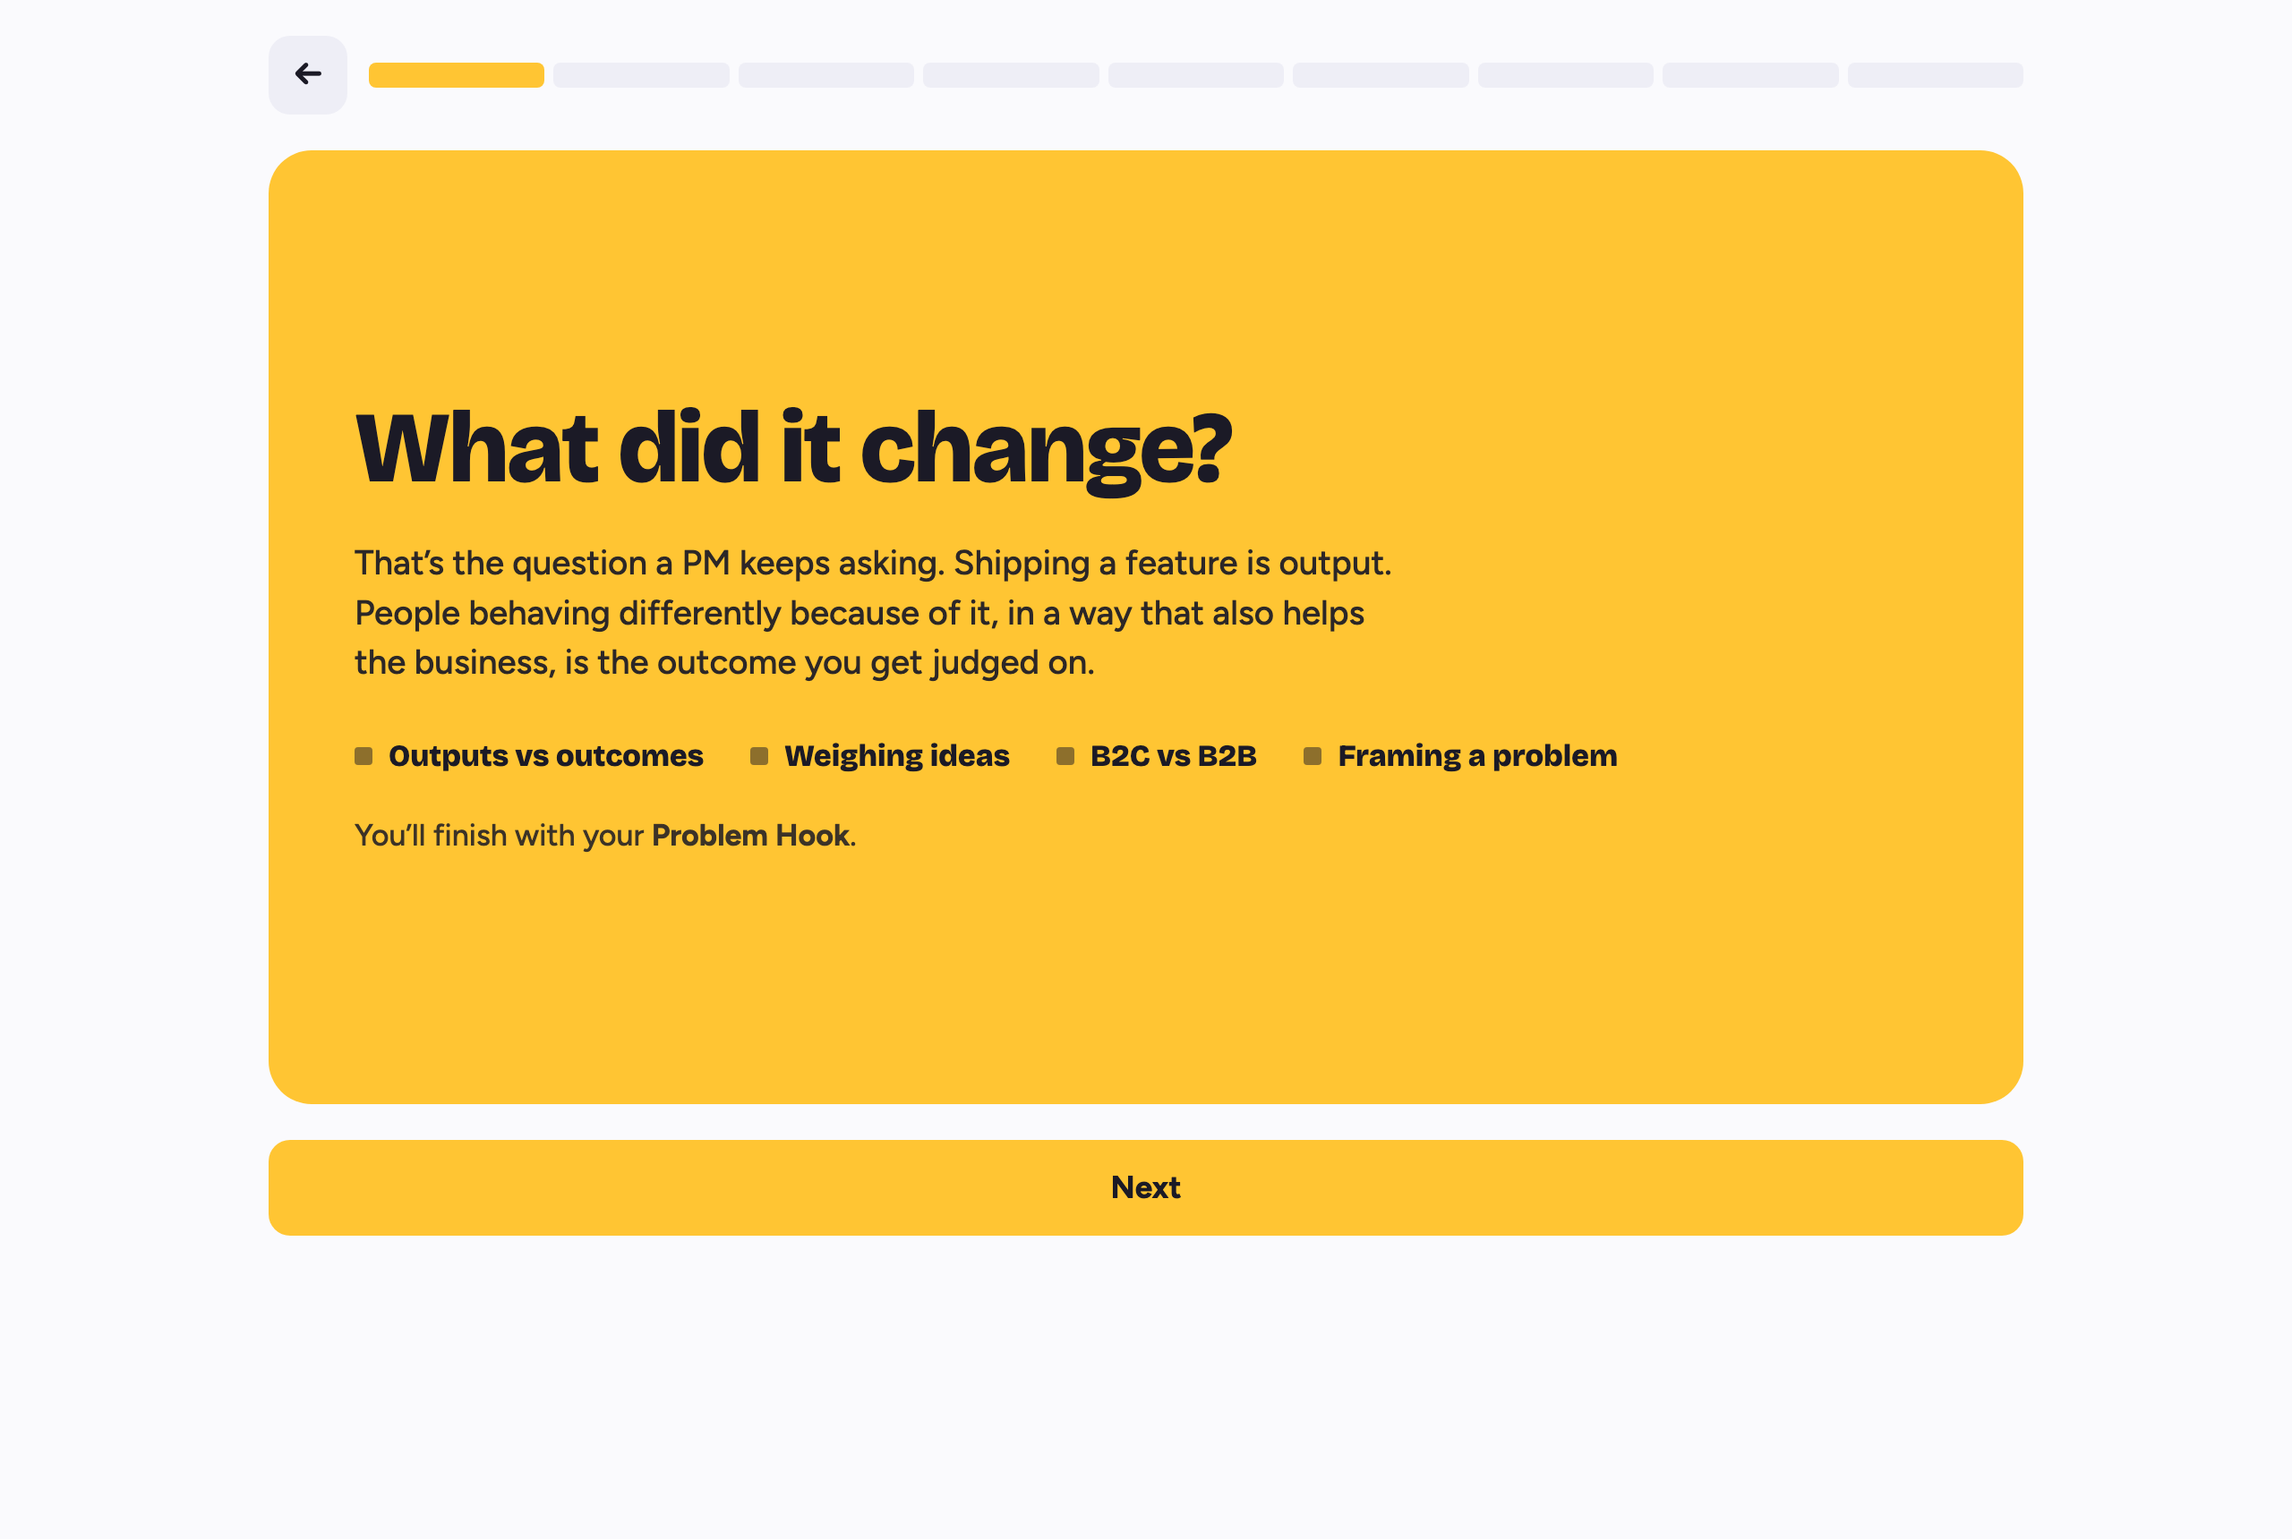
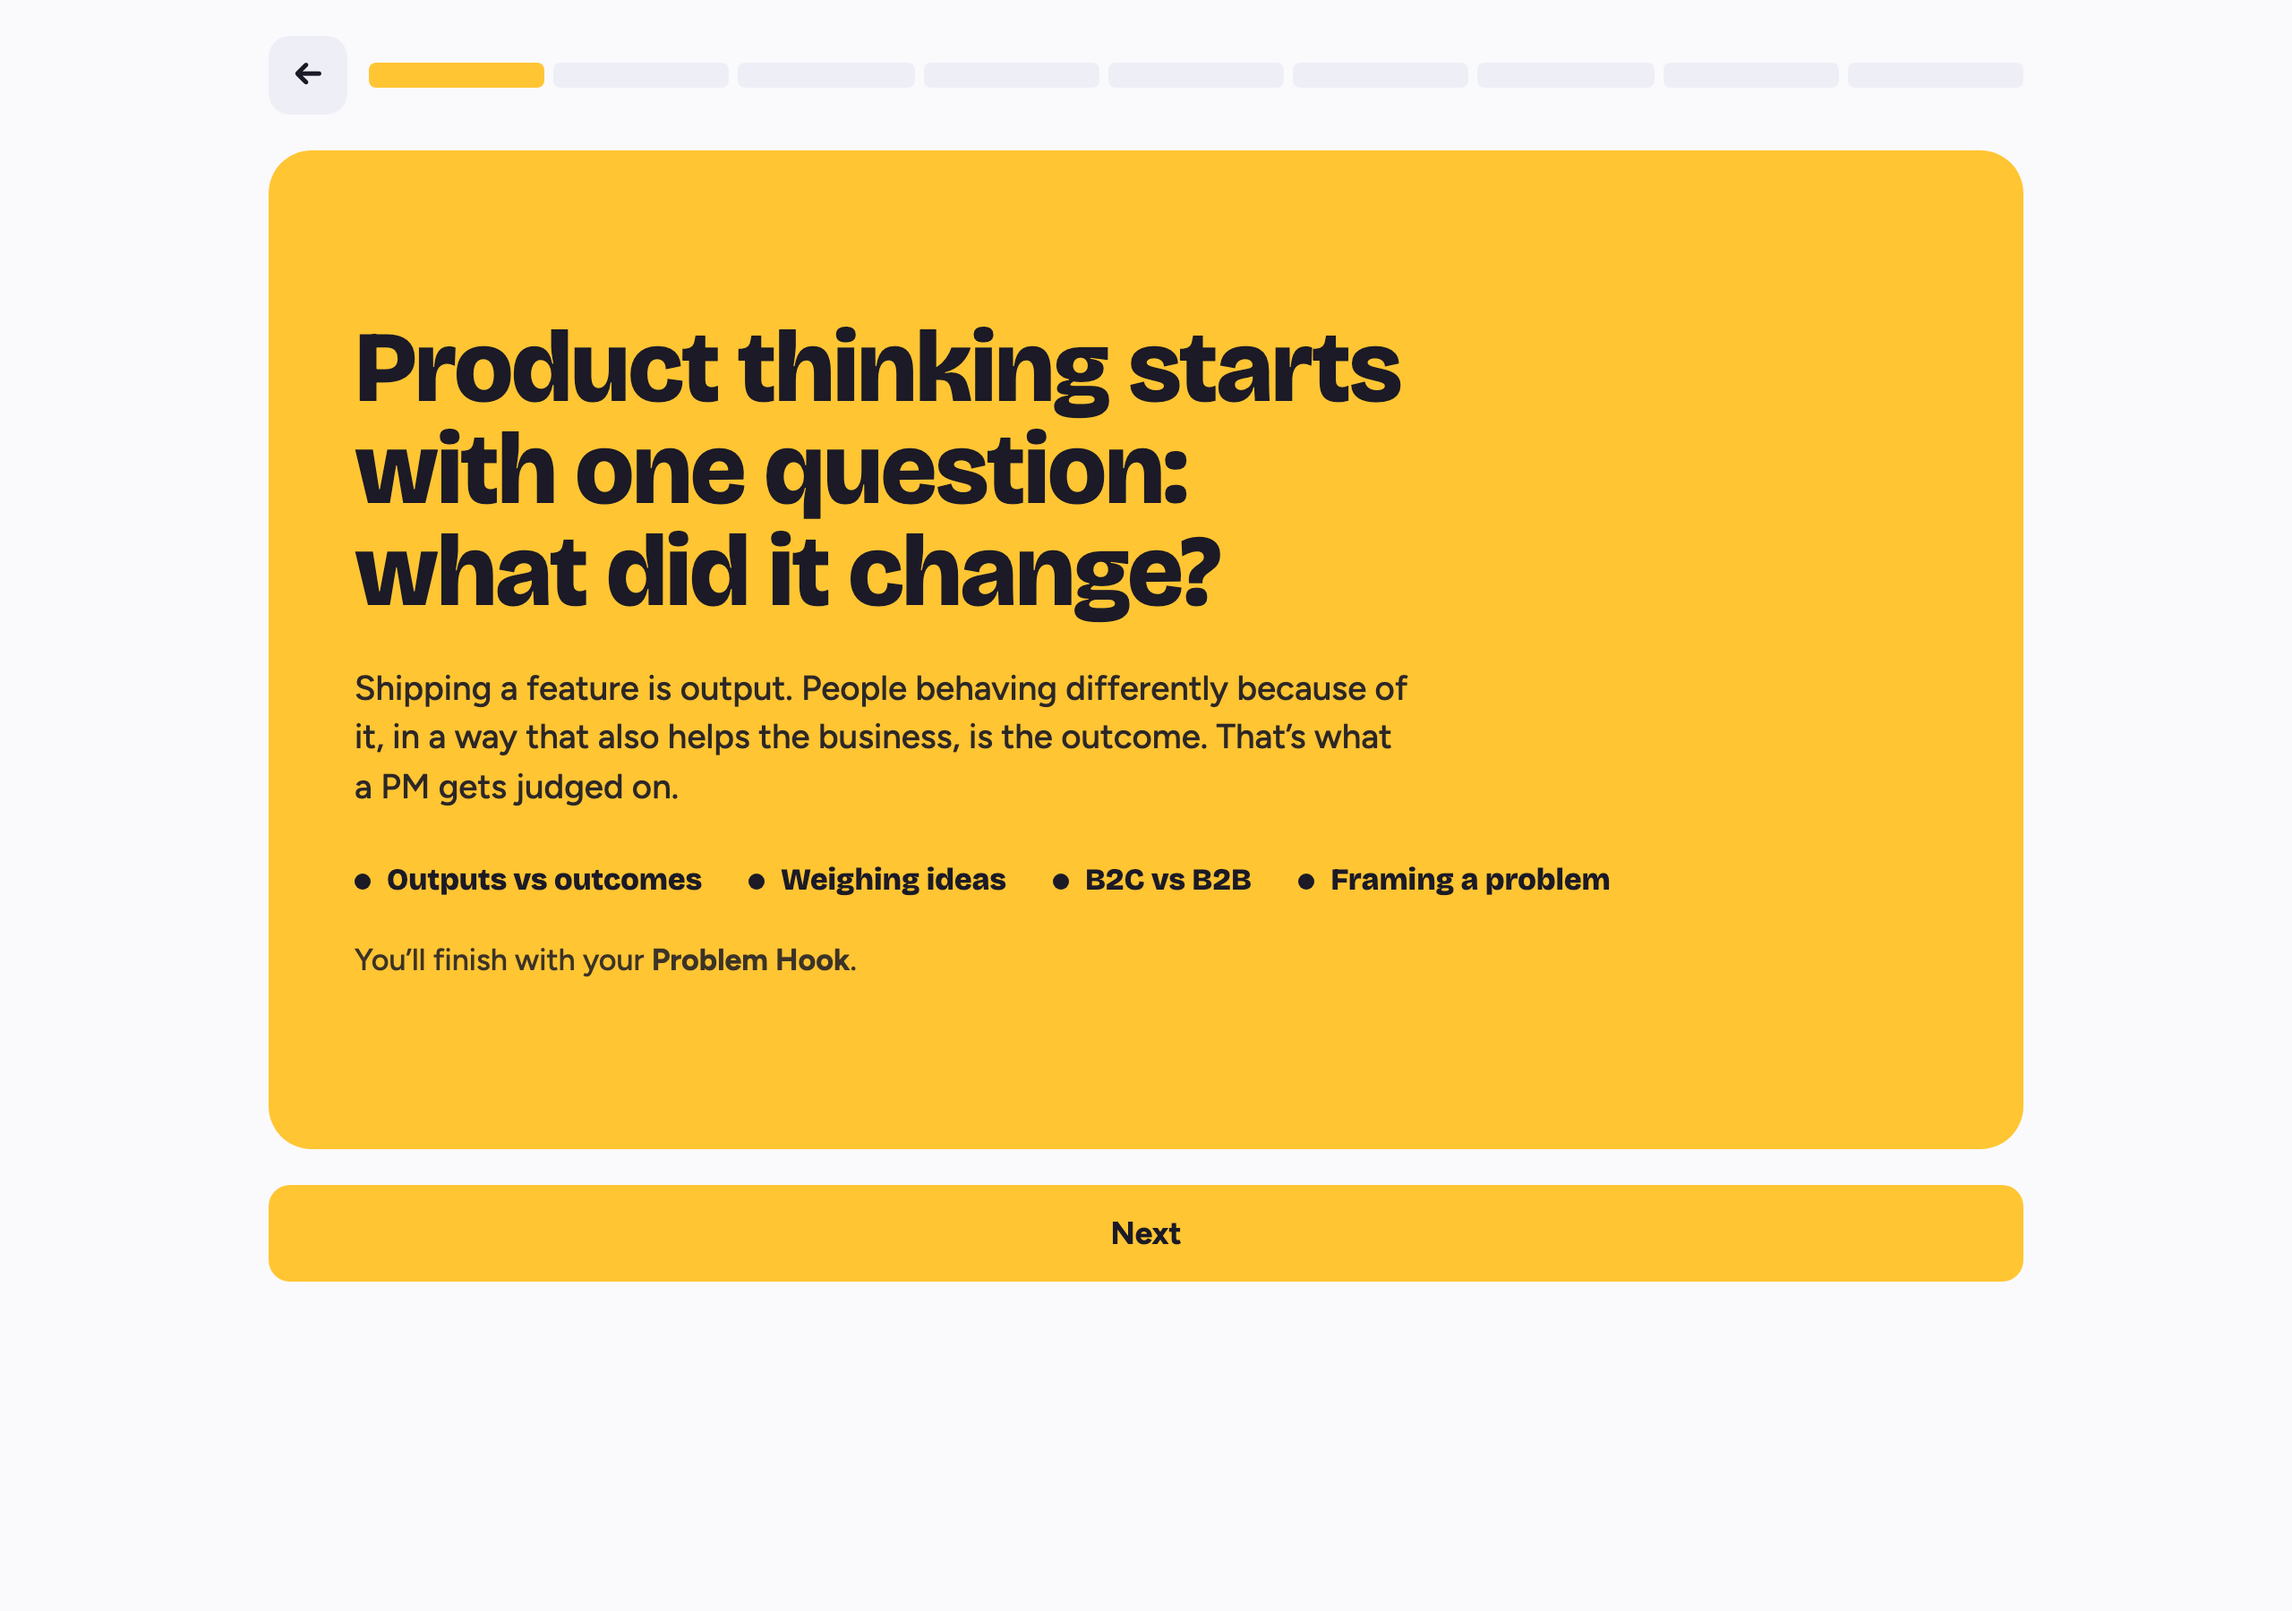
Name the concept in each module opener; dots for topic lists

diff --git a/src/index.html b/src/index.html
@@ -74,7 +74,7 @@ button{border:0;cursor:pointer;background:none;padding:0;text-align:left}
 .lead{font-size:1.1rem;max-width:52ch}
 .cover{list-style:none;margin:6px 0 0;padding:0;display:flex;flex-wrap:wrap;gap:10px 26px;font:700 1.05rem/1.2 var(--display)}
 .cover li{display:flex;align-items:center;gap:9px}
-.cover li::before{content:"";width:10px;height:10px;border-radius:2px;background:currentColor;opacity:.5}
+.cover li::before{content:"";width:9px;height:9px;border-radius:50%;background:currentColor;flex:none}
 .make{opacity:.85}
 @keyframes in{from{opacity:.4;transform:translateY(10px)}to{opacity:1;transform:none}}
 .ctrl{display:flex;gap:12px}
@@ -221,7 +221,7 @@ const C={yellow:['var(--yellow)','var(--ink)'],coral:['var(--coral)','var(--ink)
 
 const M=[
 {id:'m1',name:'Think',official:'Develop Strategic Product Thinking',col:'yellow',artifact:'Problem Hook',cards:[
- {t:'big',h:'What did it change?',p:'That’s the question a PM keeps asking. Shipping a feature is output. People behaving differently because of it, in a way that also helps the business, is the outcome you get judged on.',on:['Outputs vs outcomes','Weighing ideas','B2C vs B2B','Framing a problem']},
+ {t:'big',h:'Product thinking starts with one question: what did it change?',p:'Shipping a feature is output. People behaving differently because of it, in a way that also helps the business, is the outcome. That’s what a PM gets judged on.',on:['Outputs vs outcomes','Weighing ideas','B2C vs B2B','Framing a problem']},
  {t:'sort',h:'Output or outcome?',buckets:['Output','Outcome'],hints:['We made a thing','Something changed'],items:[
   ['Launched dark mode',0,'A launch is something you made. Nothing has changed for the user yet.'],
   ['Checkout time dropped 30%',1,'Users feel this change. That makes it an outcome.'],
@@ -252,7 +252,7 @@ const M=[
  {t:'build'}]},
 
 {id:'m2',name:'Discover',official:'Discover Product Opportunities via Qualitative Signals',col:'coral',artifact:'Persona & Journey Map',cards:[
- {t:'big',h:'People already get by without you.',p:'Before your product exists, people manage with a spreadsheet, a group chat or a habit. Switching costs them effort. So you need to understand that workaround well, and be clearly better than it.',on:['Workarounds as clues','Personas','Journey maps','The experience gap']},
+ {t:'big',h:'Discovery means learning how people get by without you.',p:'Before your product exists, people manage with a spreadsheet, a group chat or a habit. Switching costs them effort. So you need to understand that workaround well, and be clearly better than it.',on:['Workarounds as clues','Personas','Journey maps','The experience gap']},
  {t:'reveal',h:'Workarounds are clues',p:'Each one is someone patching a gap. Tap to see which gap.',tiles:[
   ['Screenshots of receipts','Logging an expense takes too long.'],
   ['A spreadsheet with nine tabs','The tool doesn’t fit how the team plans.'],
@@ -271,7 +271,7 @@ const M=[
  {t:'build'}]},
 
 {id:'m3',name:'Measure',official:'Use Analytics and Metrics for Data-Driven Decisions',col:'blue',artifact:'Testable Hypothesis',cards:[
- {t:'big',h:'Which numbers actually matter?',p:'Dashboards fill up with totals that only ever go up. The useful numbers are rates tied to user value. When one of those moves, you know where to look and what to try next.',on:['Vanity vs strategic metrics','The AARRR funnel','From data to hypothesis']},
+ {t:'big',h:'Metrics are only useful if they help you decide.',p:'Dashboards fill up with totals that only ever go up. The useful numbers are rates tied to user value. When one of those moves, you know where to look and what to try next.',on:['Vanity vs strategic metrics','The AARRR funnel','From data to hypothesis']},
  {t:'sort',h:'Vanity or strategic?',buckets:['Vanity','Strategic'],hints:['Only goes up','Changes a decision'],items:[
   ['Total downloads, all time',0,'It can only go up, so it never tells you to change course.'],
   ['Share of new users who finish setup',1,'A rate. If it drops, you know exactly where to look.'],
@@ -322,7 +322,7 @@ const M=[
  {t:'build'}]},
 
 {id:'m5',name:'Test',official:'Run Effective Product Experimentation',col:'purple',artifact:'Experiment Brief',cards:[
- {t:'big',h:'Find out cheaply before you build expensively.',p:'Every idea rests on a few guesses. Test the riskiest one first. The right method depends on what you want to learn, how much traffic you have and what it costs to be wrong.',on:['Six ways to test','Choosing a method','The experiment brief']},
+ {t:'big',h:'Experiments let you find out cheaply before you build.',p:'Every idea rests on a few guesses. Test the riskiest one first. The right method depends on what you want to learn, how much traffic you have and what it costs to be wrong.',on:['Six ways to test','Choosing a method','The experiment brief']},
  {t:'reveal',h:'Six ways to test an idea',tiles:[
   ['A/B test','Two versions on live traffic. Compare one metric.'],
   ['Fake door','Show the button before building the feature. Count the clicks.'],
@@ -348,7 +348,7 @@ const M=[
  {t:'build'}]},
 
 {id:'m6',name:'Launch',official:'Launch Impactful GTM Plans',col:'pink',artifact:'GTM Launch Plan',cards:[
- {t:'big',h:'Launching is more than pressing deploy.',p:'Someone has to decide who hears about it, where, and in what order. A small fix needs a release note. A new product needs a plan.',on:['Five GTM choices','Sizing a launch','Channels','Rolling out in phases']},
+ {t:'big',h:'Go-to-market is how a change reaches the right people.',p:'Someone has to decide who hears about it, where, and in what order. A small fix needs a release note. A new product needs a plan.',on:['Five GTM choices','Sizing a launch','Channels','Rolling out in phases']},
  {t:'steps',h:'A GTM plan makes five choices.',steps:[
   ['Goal','What success looks like'],['Audience','Who needs to hear it'],['Size','How loud to be'],['Channels','Where to say it'],['Phases','In what order']]},
  {t:'cols',h:'Match the noise to the change',cols:[
